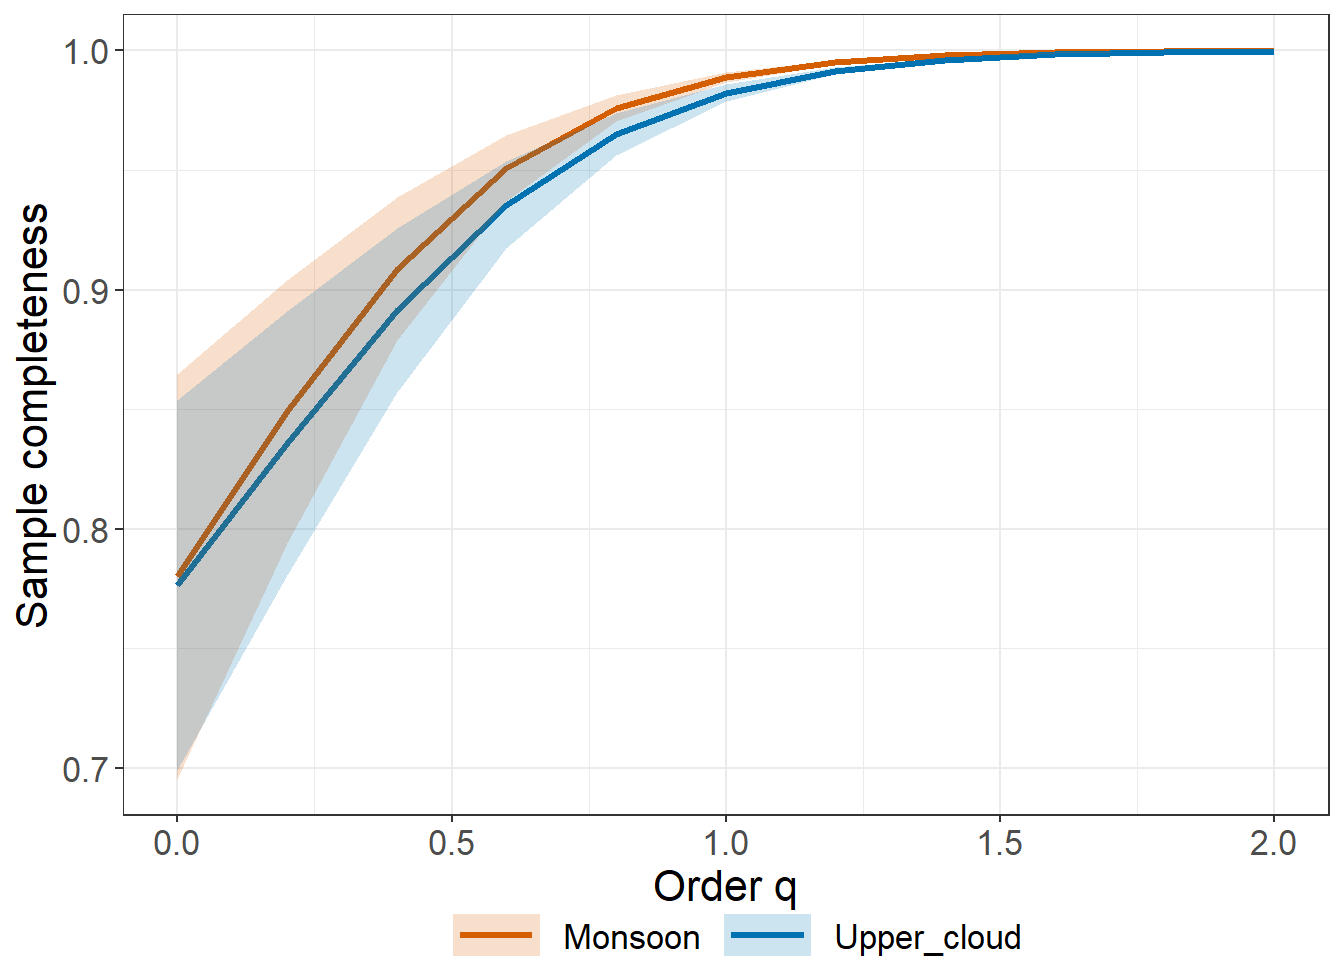
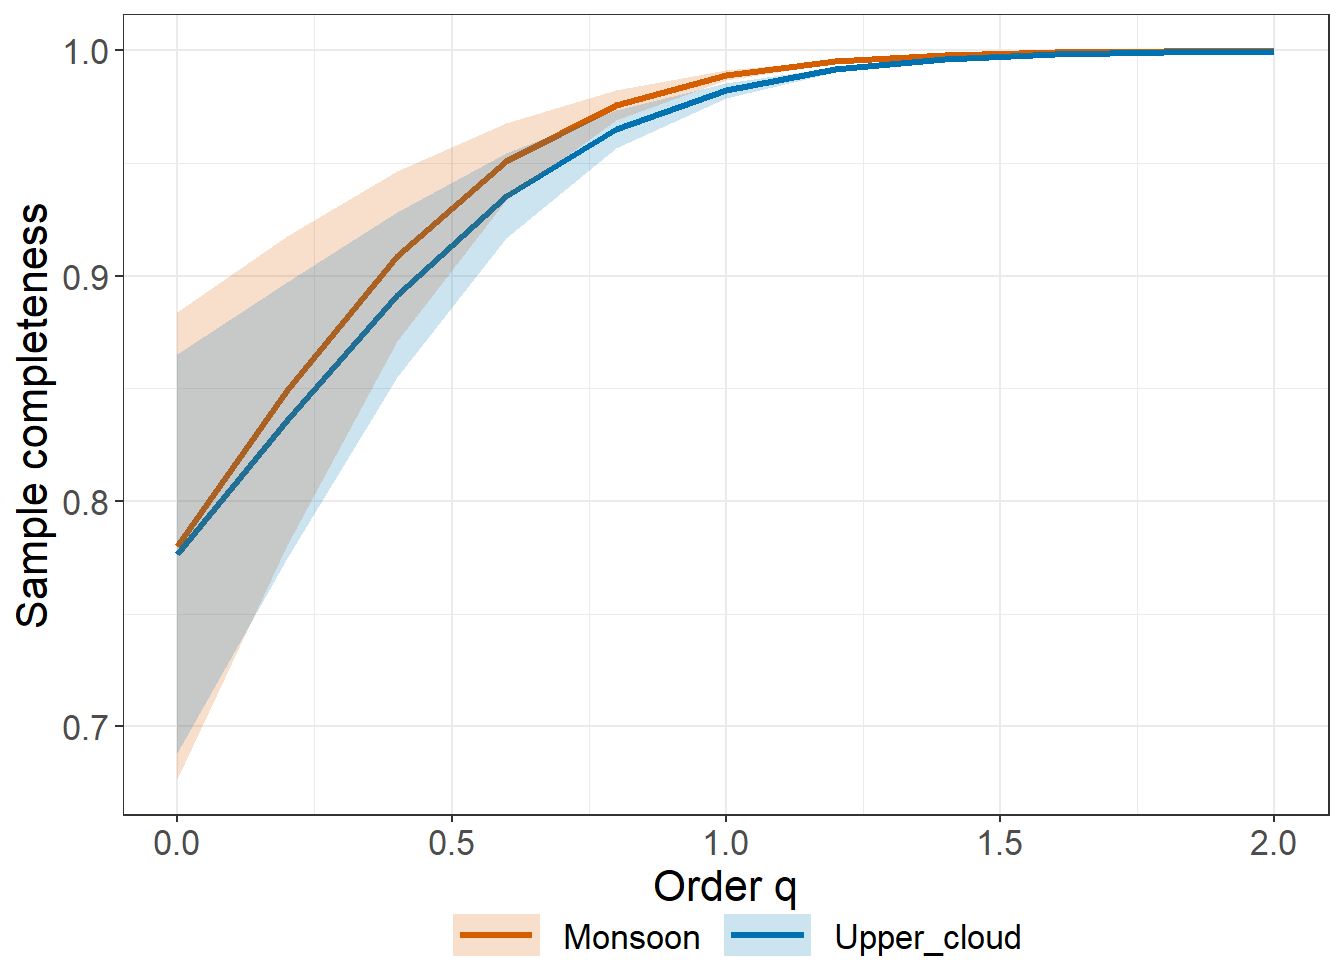
Update README.

diff --git a/README.md b/README.md
@@ -95,12 +95,12 @@ Chao’s github must be installed and loaded.
 install.packages('devtools')
 library(devtools)
 
+# install_github('AnneChao/iNEXT.3D')
+# library(iNEXT.3D)
+
 install_github('AnneChao/iNEXT.4steps')
 ## import packages
 library(iNEXT.4steps)
-
-# install_github('AnneChao/iNEXT.3D')
-# library(iNEXT.3D)
 
 library(ggplot2)
 ```
@@ -438,12 +438,12 @@ $`STEP1. Sample completeness profiles`
 
 $`STEP2. Asymptotic analysis`
   Assemblage         Diversity Observed Estimator  s.e.   LCL    UCL
-1     Closed  Species richness    44.00     72.11 32.45 44.00 135.71
-2     Closed Shannon diversity    10.04     10.30  0.45  9.42  11.18
-3     Closed Simpson diversity     5.71      5.73  0.29  5.16   6.30
-4       Open  Species richness    74.00     96.31 10.47 75.78 116.84
-5       Open Shannon diversity    16.34     16.84  0.40 16.06  17.62
-6       Open Simpson diversity     9.41      9.46  0.28  8.90  10.01
+1     Closed  Species richness    44.00     72.11 21.16 44.00 113.59
+2     Closed Shannon diversity    10.04     10.30  0.43  9.46  11.14
+3     Closed Simpson diversity     5.71      5.73  0.25  5.23   6.22
+4       Open  Species richness    74.00     96.31 17.18 74.00 129.99
+5       Open Shannon diversity    16.34     16.84  0.53 15.80  17.88
+6       Open Simpson diversity     9.41      9.46  0.34  8.79  10.13
 
 $`STEP3. Non-asymptotic coverage-based rarefaction and extrapolation analysis`
   Cmax = 0.994 q = 0 q = 1 q = 2
@@ -512,12 +512,12 @@ $`STEP1. Sample completeness profiles`
 
 $`STEP2. Asymptotic analysis`
    Assemblage         Diversity Observed Estimator  s.e.    LCL    UCL
-1     Monsoon  Species richness   329.00    421.67 23.80 375.02 468.33
-2     Monsoon Shannon diversity   145.65    150.15  1.55 147.12 153.18
-3     Monsoon Simpson diversity   102.33    103.35  1.04 101.31 105.39
-4 Upper_cloud  Species richness   239.00    307.78 17.84 272.81 342.75
-5 Upper_cloud Shannon diversity   105.53    110.50  1.69 107.19 113.81
-6 Upper_cloud Simpson diversity    71.17     72.23  1.18  69.90  74.55
+1     Monsoon  Species richness   329.00    421.67 22.46 377.65 465.70
+2     Monsoon Shannon diversity   145.65    150.15  1.60 147.02 153.28
+3     Monsoon Simpson diversity   102.33    103.35  1.26 100.88 105.82
+4 Upper_cloud  Species richness   239.00    307.78 22.79 263.11 352.45
+5 Upper_cloud Shannon diversity   105.53    110.50  1.83 106.92 114.08
+6 Upper_cloud Simpson diversity    71.17     72.23  1.12  70.03  74.42
 
 $`STEP3. Non-asymptotic coverage-based rarefaction and extrapolation analysis`
   Cmax = 0.993  q = 0  q = 1  q = 2
@@ -566,12 +566,12 @@ $`STEP1. Sample completeness profiles`
 
 $`STEP2. Asymptotic analysis`
   Assemblage Phylogenetic.Diversity Phylogenetic.Observed Phylogenetic.Estimator s.e.   LCL   UCL Reftime   Type
-1       Edge               q = 0 PD                 61.29                  80.03 5.22 69.80 90.25     400 meanPD
-2       Edge               q = 1 PD                  5.25                   5.37 0.12  5.13  5.62     400 meanPD
-3       Edge               q = 2 PD                  1.80                   1.80 0.03  1.74  1.85     400 meanPD
-4   Interior               q = 0 PD                 69.32                  86.38 5.04 76.49 96.26     400 meanPD
-5   Interior               q = 1 PD                  5.72                   5.85 0.14  5.58  6.13     400 meanPD
-6   Interior               q = 2 PD                  1.91                   1.91 0.04  1.84  1.99     400 meanPD
+1       Edge               q = 0 PD                 61.29                  80.03 5.54 69.18 90.88     400 meanPD
+2       Edge               q = 1 PD                  5.25                   5.37 0.10  5.17  5.58     400 meanPD
+3       Edge               q = 2 PD                  1.80                   1.80 0.02  1.75  1.84     400 meanPD
+4   Interior               q = 0 PD                 69.32                  86.38 2.90 80.69 92.06     400 meanPD
+5   Interior               q = 1 PD                  5.72                   5.85 0.11  5.64  6.06     400 meanPD
+6   Interior               q = 2 PD                  1.91                   1.91 0.03  1.86  1.97     400 meanPD
 
 $`STEP3. Non-asymptotic coverage-based rarefaction and extrapolation analysis`
   Cmax = 0.973 q = 0 q = 1 q = 2
@@ -615,12 +615,12 @@ $`STEP1. Sample completeness profiles`
 
 $`STEP2. Asymptotic analysis`
   Assemblage Functional.Diversity Functional.Observed Functional.Estimator s.e.  LCL  UCL  Tau
-1       Edge q = 0 FD(single tau)                6.86                 6.86 0.20 6.86 7.26 0.35
-2       Edge q = 1 FD(single tau)                6.52                 6.54 0.14 6.26 6.82 0.35
-3       Edge q = 2 FD(single tau)                6.26                 6.28 0.12 6.04 6.51 0.35
-4   Interior q = 0 FD(single tau)                5.91                 5.91 0.06 5.91 6.03 0.35
-5   Interior q = 1 FD(single tau)                5.19                 5.20 0.09 5.03 5.37 0.35
-6   Interior q = 2 FD(single tau)                4.72                 4.72 0.10 4.53 4.92 0.35
+1       Edge q = 0 FD(single tau)                6.86                 6.86 0.16 6.86 7.18 0.35
+2       Edge q = 1 FD(single tau)                6.52                 6.54 0.11 6.32 6.75 0.35
+3       Edge q = 2 FD(single tau)                6.26                 6.28 0.09 6.10 6.45 0.35
+4   Interior q = 0 FD(single tau)                5.91                 5.91 0.05 5.91 6.01 0.35
+5   Interior q = 1 FD(single tau)                5.19                 5.20 0.08 5.05 5.35 0.35
+6   Interior q = 2 FD(single tau)                4.72                 4.72 0.09 4.55 4.90 0.35
 
 $`STEP3. Non-asymptotic coverage-based rarefaction and extrapolation analysis`
   Cmax = 0.973 q = 0 q = 1 q = 2
